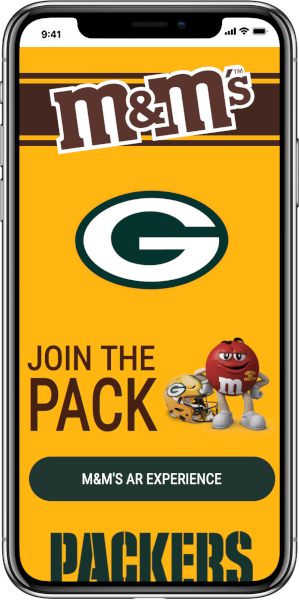
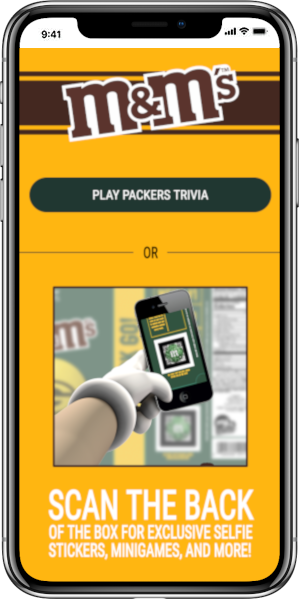
Update mmspackers.com project

diff --git a/src/components/projects/Projects.js b/src/components/projects/Projects.js
@@ -47,8 +47,8 @@ const projects = [
             <p>
                 This page was built with React and consists of several microsites that users access
                 by scanning a QR code on M&Ms packages. I was responsible for the frontend
-                architecture and implementation. The page features a photo stickers implementation
-                using my react-transformable-draggable library. Purchase is required for full access
+                architecture and implementation. The page features a Packers trivia mini-game, and a photo stickers implementation
+                based on my react-transformable-draggable library. Purchase is required for full access
                 to the site.
             </p>
         ),
